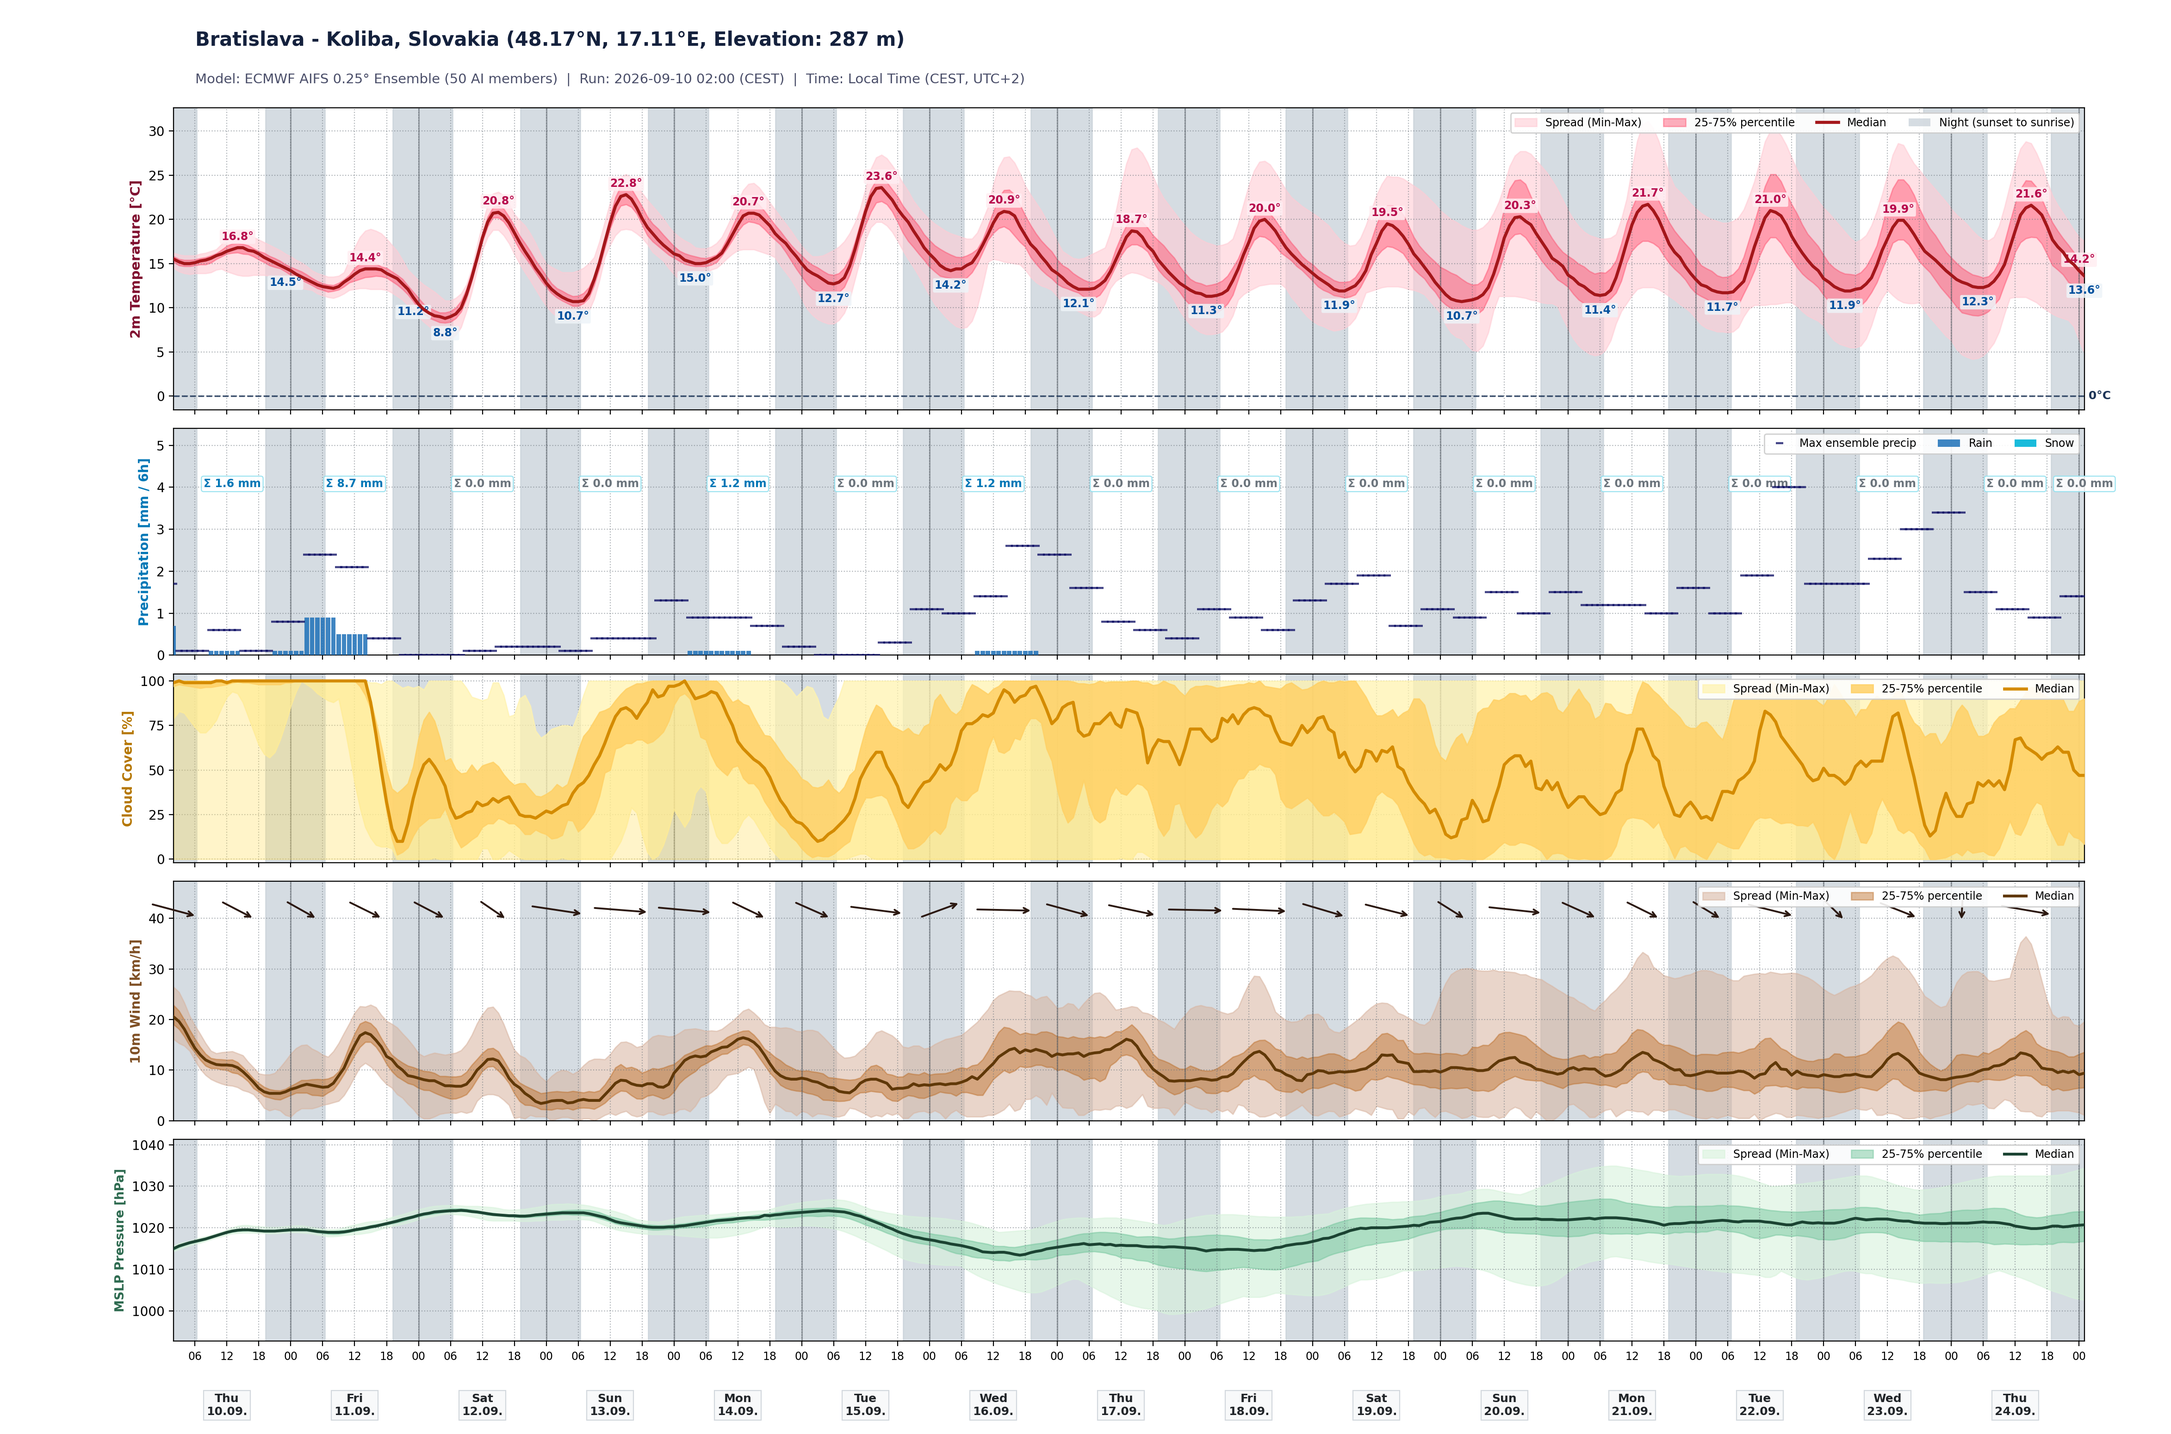
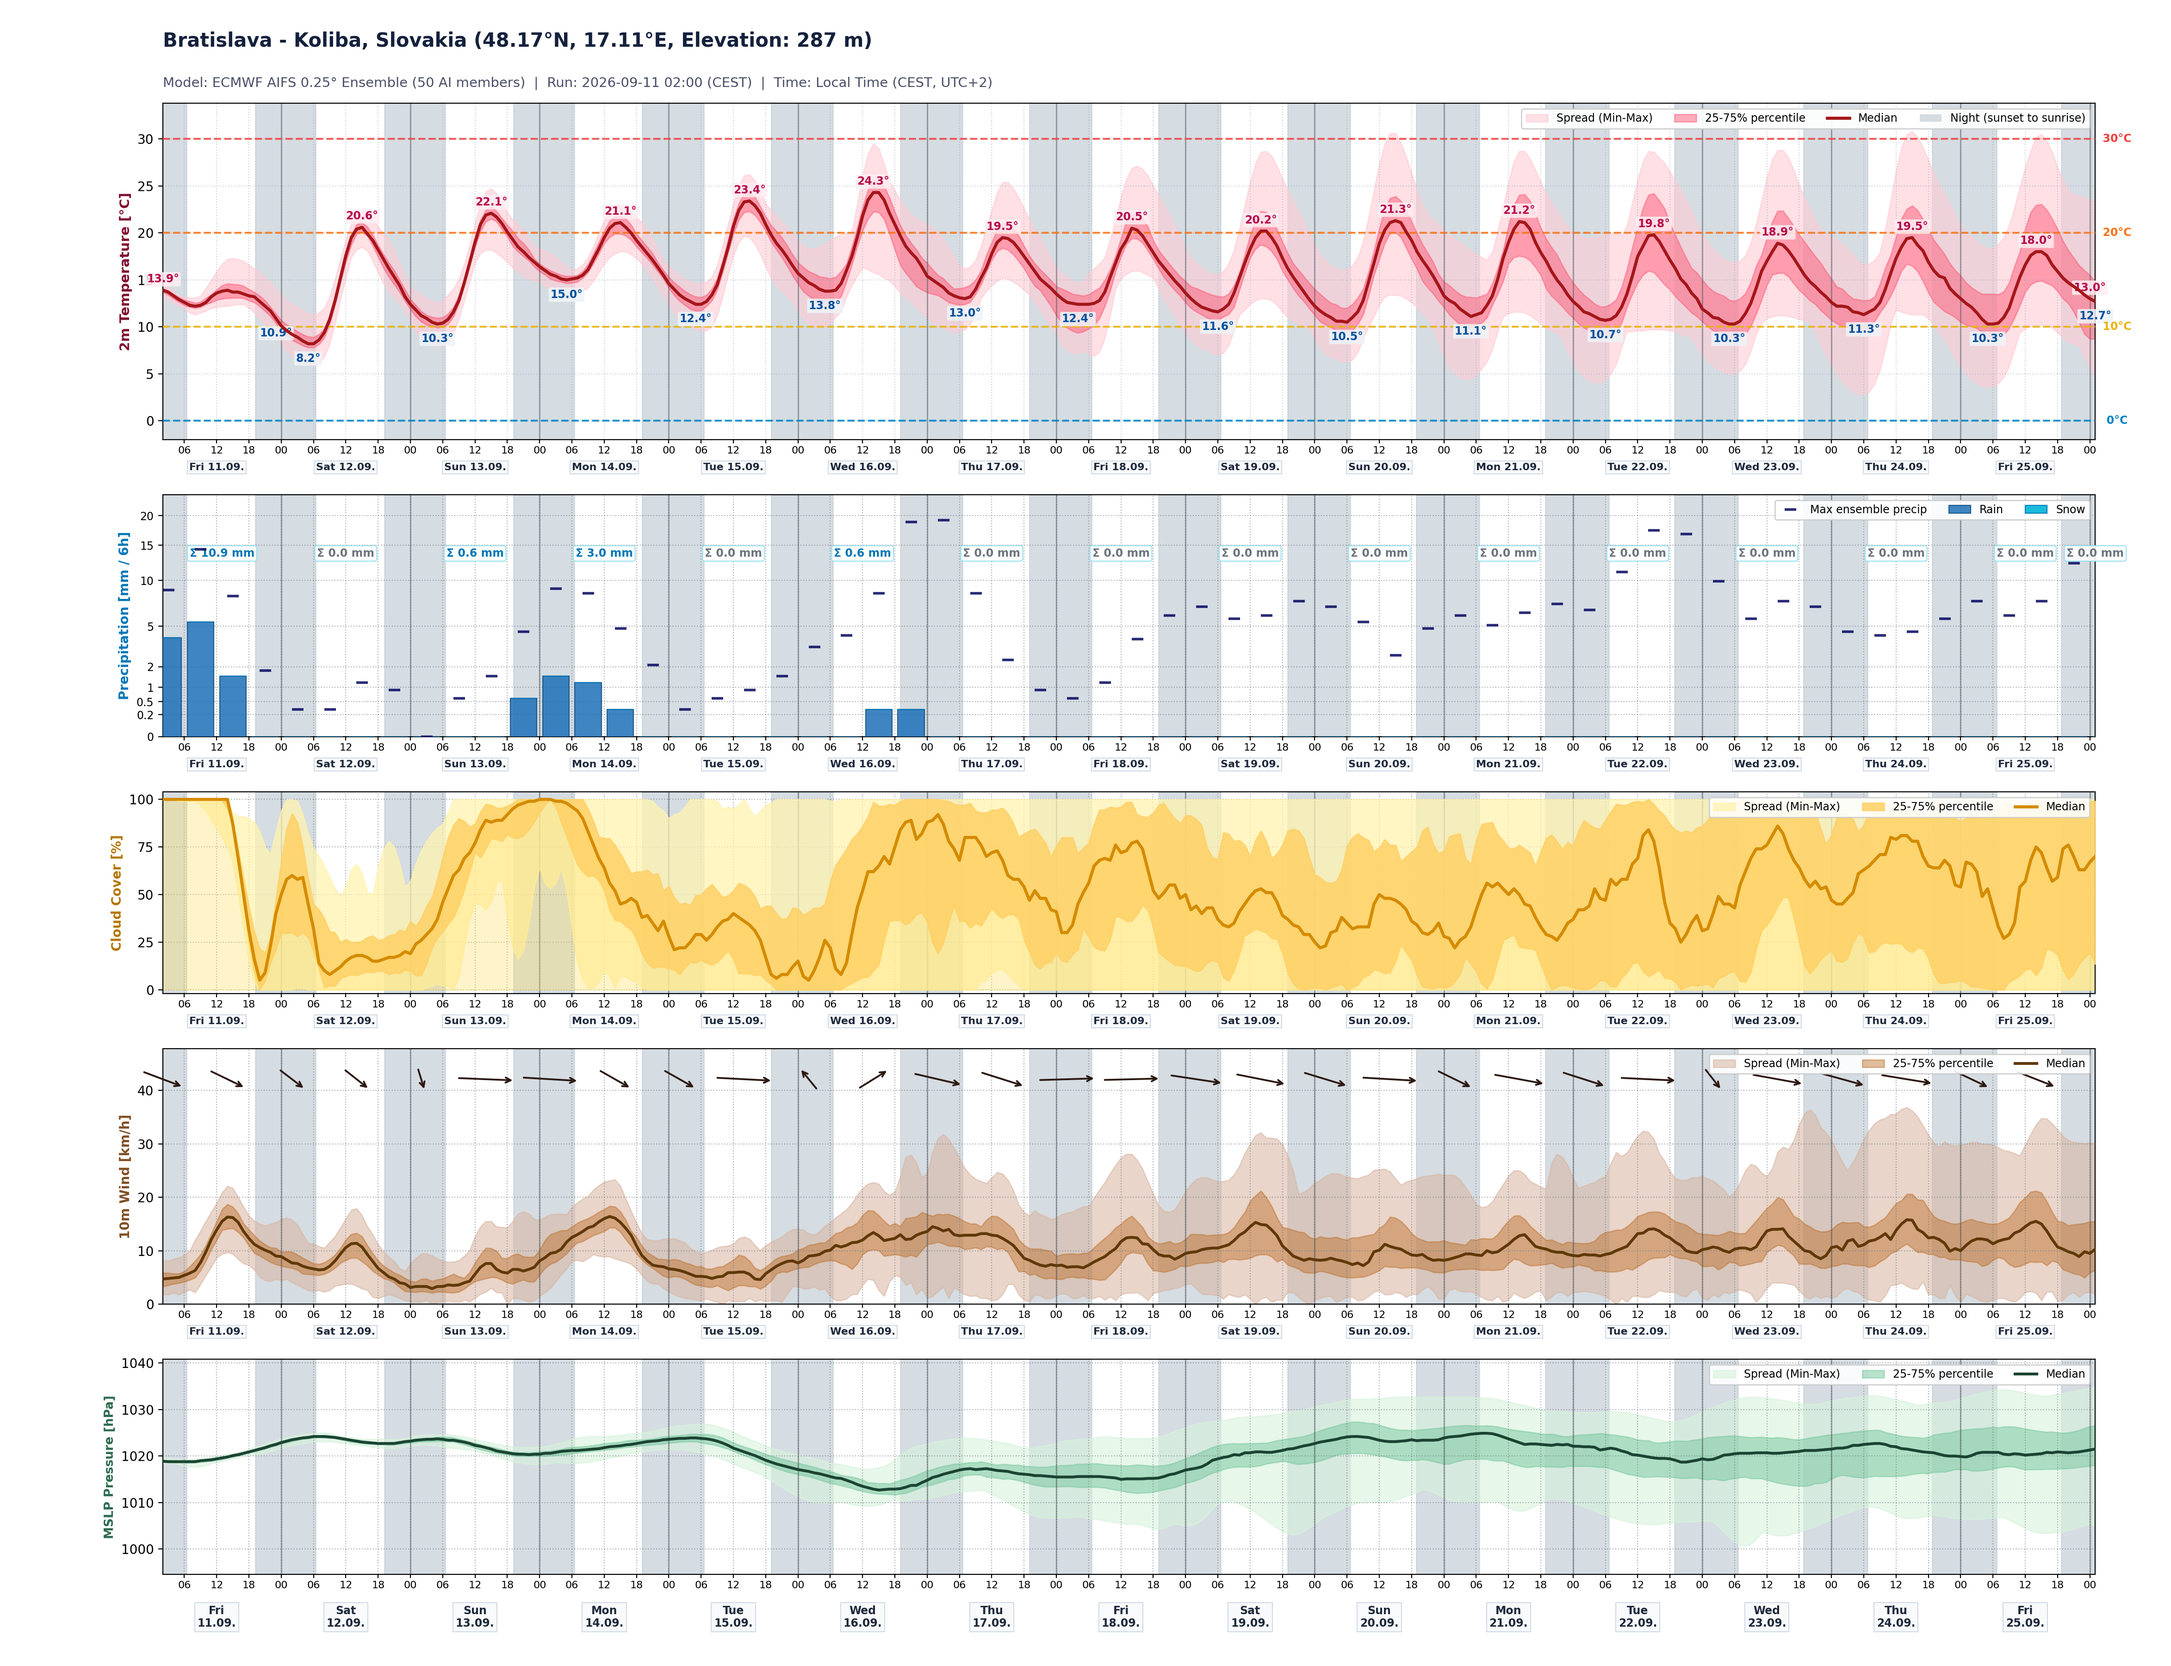
Add colored temperature threshold lines, improved precip scaling, and days between graph panes

diff --git a/renderer.py b/renderer.py
@@ -18,6 +18,7 @@ matplotlib.use("Agg")  # Non-interactive backend for server/CLI
 import matplotlib.dates as mdates
 import matplotlib.pyplot as plt
 import matplotlib.ticker as ticker
+import matplotlib.transforms as mtransforms
 import numpy as np
 
 
@@ -140,20 +141,21 @@ class MeteogramRenderer:
 
         # Scale width dynamically based on duration (from 14 inches up to 24 inches for 15 days)
         fig_width = max(14.0, min(24.0, 10.0 + forecast_days * 0.9))
+        fig_height = 18.0
 
         # Create Figure with 5 subplots (Temperature on top!)
         fig, axes = plt.subplots(
             nrows=5,
             ncols=1,
-            figsize=(fig_width, 15.5),
+            figsize=(fig_width, fig_height),
             sharex=True,
             gridspec_kw={
-                "height_ratios": [2.4, 1.8, 1.5, 1.9, 1.6],
-                "hspace": 0.08,
-                "top": 0.925,
-                "bottom": 0.065,
-                "left": 0.08,
-                "right": 0.96,
+                "height_ratios": [2.5, 1.8, 1.5, 1.9, 1.6],
+                "hspace": 0.22,
+                "top": 0.938,
+                "bottom": 0.055,
+                "left": 0.075,
+                "right": 0.965,
             },
         )
 
@@ -191,23 +193,44 @@ class MeteogramRenderer:
             zorder=4,
         )
 
-        # Freezing line (0°C)
-        ax_temp.axhline(0, color="#1d3557", linestyle="--", linewidth=1.2, alpha=0.85, zorder=3)
-        ax_temp.text(
-            num_times[-1],
-            0,
-            " 0°C",
-            verticalalignment="center",
-            fontsize=9,
-            fontweight="bold",
-            color="#1d3557",
-        )
+        # Thicker lines to -10, 0, 10, 20, 30 degrees with distinctive light colors:
+        # -10: light blue, 0: blue, 10: yellow, 20: orange, 30: red
+        temp_levels = [
+            (-10, "#38bdf8", " -10°C"),  # light blue
+            (0,   "#0284c7", "   0°C"),  # blue
+            (10,  "#eab308", "  10°C"),  # yellow
+            (20,  "#f97316", "  20°C"),  # orange
+            (30,  "#ef4444", "  30°C"),  # red
+        ]
+
+        t_min_data = float(np.nanmin(temp["min"]))
+        t_max_data = float(np.nanmax(temp["max"]))
+        y_min = min(-2.0, t_min_data - 2.0)
+        y_max = max(32.0, t_max_data + 3.0)
+        if t_min_data < -8.0:
+            y_min = min(-12.0, t_min_data - 2.0)
+        ax_temp.set_ylim(y_min, y_max)
+
+        for deg, color, lbl in temp_levels:
+            if y_min <= deg <= y_max:
+                ax_temp.axhline(deg, color=color, linestyle="--", linewidth=1.5, alpha=0.85, zorder=3)
+                ax_temp.text(
+                    num_times[-1],
+                    deg,
+                    lbl,
+                    verticalalignment="center",
+                    ha="left",
+                    fontsize=8.5,
+                    fontweight="bold",
+                    color=color,
+                    zorder=5,
+                )
 
         # Annotate daily min / max temperatures for the median curve
         self._annotate_daily_temp(ax_temp, times, num_times, temp["median"])
 
         ax_temp.set_ylabel(self.t["temp_title"], fontsize=10.5, fontweight="bold", color="#800f2f")
-        ax_temp.grid(True, linestyle=":", alpha=0.55, color="#6c757d", zorder=1)
+        ax_temp.grid(True, linestyle=":", alpha=0.45, color="#94a3b8", zorder=1)
 
         # Include Night shading in legend
         from matplotlib.patches import Patch
@@ -218,61 +241,93 @@ class MeteogramRenderer:
         ax_temp.legend(handles=handles, labels=labels, loc="upper right", framealpha=0.92, fontsize=8.5, ncol=4)
 
         # -------------------------------------------------------------
-        # PANEL 2: PRECIPITATION & SNOWFALL
+        # PANEL 2: PRECIPITATION & SNOWFALL (6h intervals + Sqrt scaling)
         # -------------------------------------------------------------
-        precip = stats["precipitation"]
-        snow = stats["snowfall"]
+        precip_raw = stats["precipitation"]
+        snow_raw = stats["snowfall"]
 
-        # Interval width in days for bar chart
-        if len(num_times) > 1:
-            bar_width = (num_times[1] - num_times[0]) * 0.85
-        else:
-            bar_width = 0.2
+        # Aggregate hourly data into 6-hour blocks: (00-06, 06-12, 12-18, 18-00 in active tz)
+        blocks: Dict[datetime, List[int]] = {}
+        for i, t in enumerate(times):
+            block_start_hour = (t.hour // 6) * 6
+            block_dt = t.replace(hour=block_start_hour, minute=0, second=0, microsecond=0)
+            blocks.setdefault(block_dt, []).append(i)
 
-        # Rain (liquid) vs Snow
-        rain_vals = np.maximum(0, precip["median"] - snow["median"])
-        snow_vals = snow["median"]
+        block_dts = sorted(blocks.keys())
+        block_num_times = [mdates.date2num(b + timedelta(hours=3)) for b in block_dts]
+        bar_width = (6.0 / 24.0) * 0.82  # ~5 hours wide in days
 
+        rain_6h = []
+        snow_6h = []
+        max_precip_6h = []
+
+        for b_dt in block_dts:
+            idxs = blocks[b_dt]
+            p_med_sum = float(np.sum(precip_raw["median"][idxs]))
+            s_med_sum = float(np.sum(snow_raw["median"][idxs]))
+            r_med_sum = max(0.0, p_med_sum - s_med_sum)
+            rain_6h.append(r_med_sum)
+            snow_6h.append(s_med_sum)
+            max_precip_6h.append(float(np.sum(precip_raw["max"][idxs])))
+
+        rain_6h = np.array(rain_6h)
+        snow_6h = np.array(snow_6h)
+        max_precip_6h = np.array(max_precip_6h)
+
+        # Plot stacked bars with clean edges
         ax_precip.bar(
-            num_times,
-            rain_vals,
+            block_num_times,
+            rain_6h,
             width=bar_width,
             color="#1d70b8",
+            edgecolor="#0f4c81",
+            linewidth=0.8,
             alpha=0.85,
             label=self.t["rain"],
             zorder=3,
         )
         ax_precip.bar(
-            num_times,
-            snow_vals,
-            bottom=rain_vals,
+            block_num_times,
+            snow_6h,
+            bottom=rain_6h,
             width=bar_width,
             color="#00b4d8",
+            edgecolor="#0077b6",
+            linewidth=0.8,
             alpha=0.9,
             label=self.t["snow"],
             zorder=3,
         )
 
-        # Error ticks for ensemble max spread
+        # Error ticks for ensemble max spread across 6h
         ax_precip.plot(
-            num_times,
-            precip["max"],
+            block_num_times,
+            max_precip_6h,
             color="#03045e",
             linestyle="",
             marker="_",
-            markersize=6,
-            markeredgewidth=1.6,
-            alpha=0.75,
+            markersize=9,
+            markeredgewidth=2.0,
+            alpha=0.85,
             label=self.t["max_precip"],
             zorder=4,
         )
 
-        # Make sure Y axis has enough room for daily sum labels
-        max_p_val = max(3.0, float(np.nanmax(precip["max"])) * 1.35)
+        # Better scaling for precipitation: Square-root scale allows small amounts (0.1 - 2mm)
+        # to be clearly visible while still cleanly accommodating heavy rain without squashing!
+        max_p_val = max(2.5, float(np.nanmax(max_precip_6h)) * 1.25)
+        ax_precip.set_yscale("function", functions=(lambda v: np.sqrt(np.maximum(0, v)), lambda v: v**2))
         ax_precip.set_ylim(0, max_p_val)
 
+        possible_ticks = [0, 0.2, 0.5, 1.0, 2.0, 5.0, 10.0, 15.0, 20.0, 30.0, 50.0]
+        precip_ticks = [t for t in possible_ticks if t <= max_p_val]
+        if len(precip_ticks) < 4:
+            precip_ticks = [0, 0.5, 1.0, 2.0, max_p_val]
+        ax_precip.set_yticks(precip_ticks)
+        ax_precip.set_yticklabels([f"{t:g}" for t in precip_ticks], fontsize=8.5)
+
         # Annotate daily precipitation sum
-        self._annotate_daily_precip(ax_precip, times, num_times, precip["median"])
+        self._annotate_daily_precip(ax_precip, times, num_times, precip_raw["median"])
 
         ax_precip.set_ylabel(self.t["precip_title"], fontsize=10, fontweight="bold", color="#0077b6")
         ax_precip.grid(True, linestyle=":", alpha=0.55, color="#6c757d", zorder=1)
@@ -430,9 +485,9 @@ class MeteogramRenderer:
         ax_press.legend(loc="upper right", framealpha=0.9, fontsize=8.5, ncol=3)
 
         # -------------------------------------------------------------
-        # TIMELINE CONFIGURATION & LABELS
+        # TIMELINE CONFIGURATION & LABELS ACROSS ALL PANES
         # -------------------------------------------------------------
-        self._format_x_axis(ax_press, start_time, end_time, active_tz, tz_badge)
+        self._format_axes_timeline(fig, axes, start_time, end_time, active_tz, tz_badge)
 
         # Super Title / Header banner
         loc_name = location_info.get("name", "Unknown")
@@ -452,8 +507,8 @@ class MeteogramRenderer:
         )
 
         fig.text(
-            0.09,
-            0.968,
+            0.075,
+            0.972,
             header_title,
             fontsize=15,
             fontweight="bold",
@@ -461,8 +516,8 @@ class MeteogramRenderer:
             ha="left",
         )
         fig.text(
-            0.09,
-            0.942,
+            0.075,
+            0.948,
             header_sub,
             fontsize=10.5,
             color="#4a4e69",
@@ -520,47 +575,63 @@ class MeteogramRenderer:
                     )
                 current_day += timedelta(days=1)
 
-    def _format_x_axis(
+    def _format_axes_timeline(
         self,
-        ax: plt.Axes,
+        fig: plt.Figure,
+        axes: List[plt.Axes],
         start_time: datetime,
         end_time: datetime,
         active_tz: Any,
         tz_badge: str,
     ):
-        """Format bottom X-axis with cleanly separated hours, day names, and calendar dates in active timezone."""
+        """Format X-axes on all panes: 6-hour ticks and day badges both between graph panes and at the bottom."""
         x_min = mdates.date2num(start_time)
         x_max = mdates.date2num(end_time)
-        ax.set_xlim(x_min, x_max)
 
-        # 6-hour interval ticks in the active timezone
-        hours_locator = mdates.HourLocator(byhour=[0, 6, 12, 18], tz=active_tz)
-        ax.xaxis.set_major_locator(hours_locator)
-        ax.xaxis.set_major_formatter(mdates.DateFormatter("%H", tz=active_tz))
-        ax.tick_params(axis="x", which="major", labelsize=8.5, length=4, pad=4)
+        for p_idx, ax in enumerate(axes):
+            ax.set_xlim(x_min, x_max)
+            is_bottom = (p_idx == len(axes) - 1)
 
-        # Place day names & dates in a neat strip right under the hours
-        curr = start_time.replace(hour=0, minute=0, second=0, microsecond=0)
-        while curr <= end_time:
-            midday = curr + timedelta(hours=12)
-            num_mid = mdates.date2num(midday)
-            if num_mid >= x_min and num_mid <= x_max:
-                day_name = self.t["days"][curr.weekday()]
-                date_str = curr.strftime("%d.%m.")
-                label_text = f"{day_name}\n{date_str}"
-                ax.text(
-                    num_mid,
-                    -0.26,
-                    label_text,
-                    ha="center",
-                    va="top",
-                    fontsize=9,
-                    fontweight="bold",
-                    color="#212529",
-                    transform=ax.get_xaxis_transform(),
-                    bbox=dict(boxstyle="square,pad=0.25", fc="#f8f9fa", ec="#ced4da", lw=0.8, alpha=0.9),
-                )
-            curr += timedelta(days=1)
+            # 6-hour interval ticks in active timezone
+            hours_locator = mdates.HourLocator(byhour=[0, 6, 12, 18], tz=active_tz)
+            ax.xaxis.set_major_locator(hours_locator)
+            ax.xaxis.set_major_formatter(mdates.DateFormatter("%H", tz=active_tz))
+            ax.tick_params(axis="x", which="major", labelbottom=True, labelsize=8, length=3, pad=2)
+
+            # Use point offset so badges are placed at identical physical distances regardless of subplot height
+            badge_y_offset = -24 if is_bottom else -18
+            trans_badge = mtransforms.offset_copy(ax.get_xaxis_transform(), fig=fig, y=badge_y_offset, units="points")
+
+            curr = start_time.replace(hour=0, minute=0, second=0, microsecond=0)
+            while curr <= end_time:
+                midday = curr + timedelta(hours=12)
+                num_mid = mdates.date2num(midday)
+                if num_mid >= x_min and num_mid <= x_max:
+                    day_name = self.t["days"][curr.weekday()]
+                    date_str = curr.strftime("%d.%m.")
+                    if is_bottom:
+                        badge_text = f"{day_name}\n{date_str}"
+                        fontsize = 8.5
+                        pad = 0.25
+                    else:
+                        badge_text = f"{day_name} {date_str}"
+                        fontsize = 8.0
+                        pad = 0.18
+
+                    ax.text(
+                        num_mid,
+                        0,
+                        badge_text,
+                        ha="center",
+                        va="top",
+                        fontsize=fontsize,
+                        fontweight="bold",
+                        color="#1e293b",
+                        transform=trans_badge,
+                        bbox=dict(boxstyle=f"square,pad={pad}", fc="#f8fafc", ec="#cbd5e1", lw=0.7, alpha=0.92),
+                        zorder=10,
+                    )
+                curr += timedelta(days=1)
 
     def _annotate_daily_temp(
         self,
